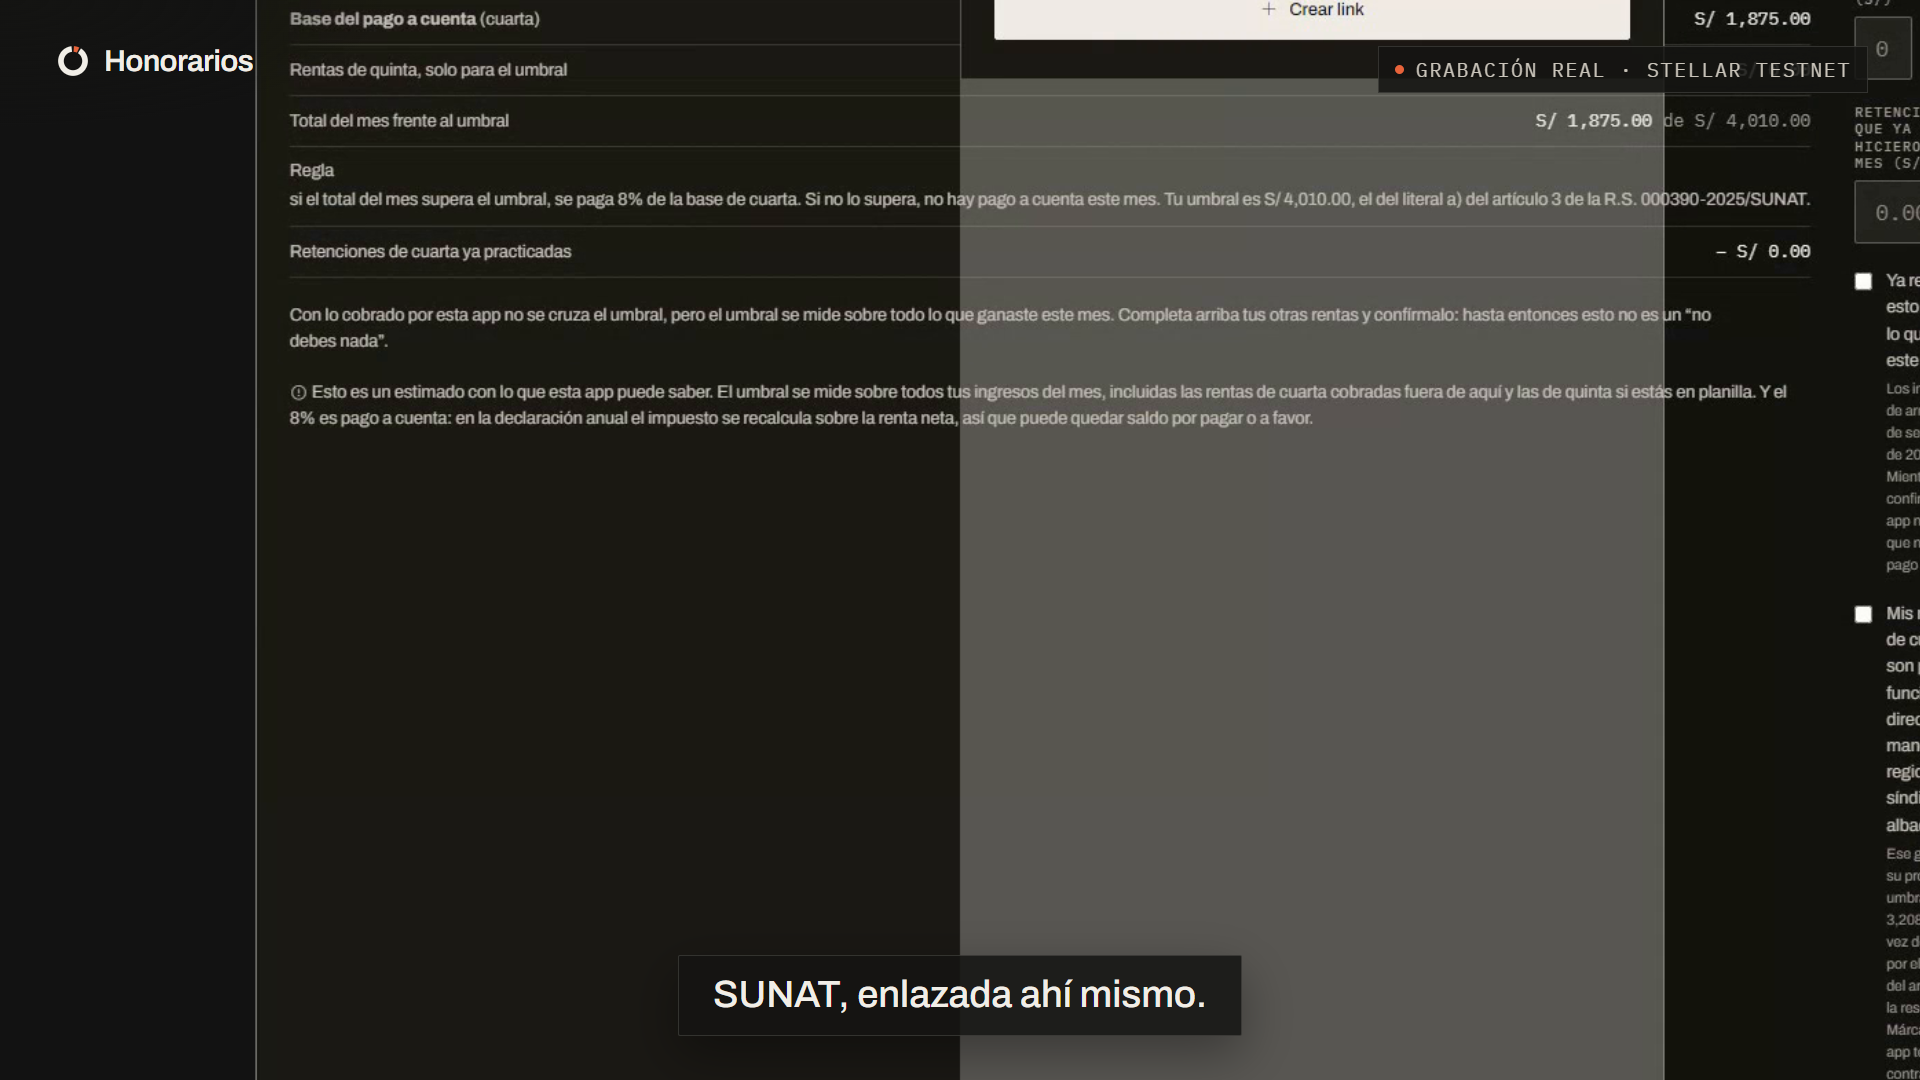
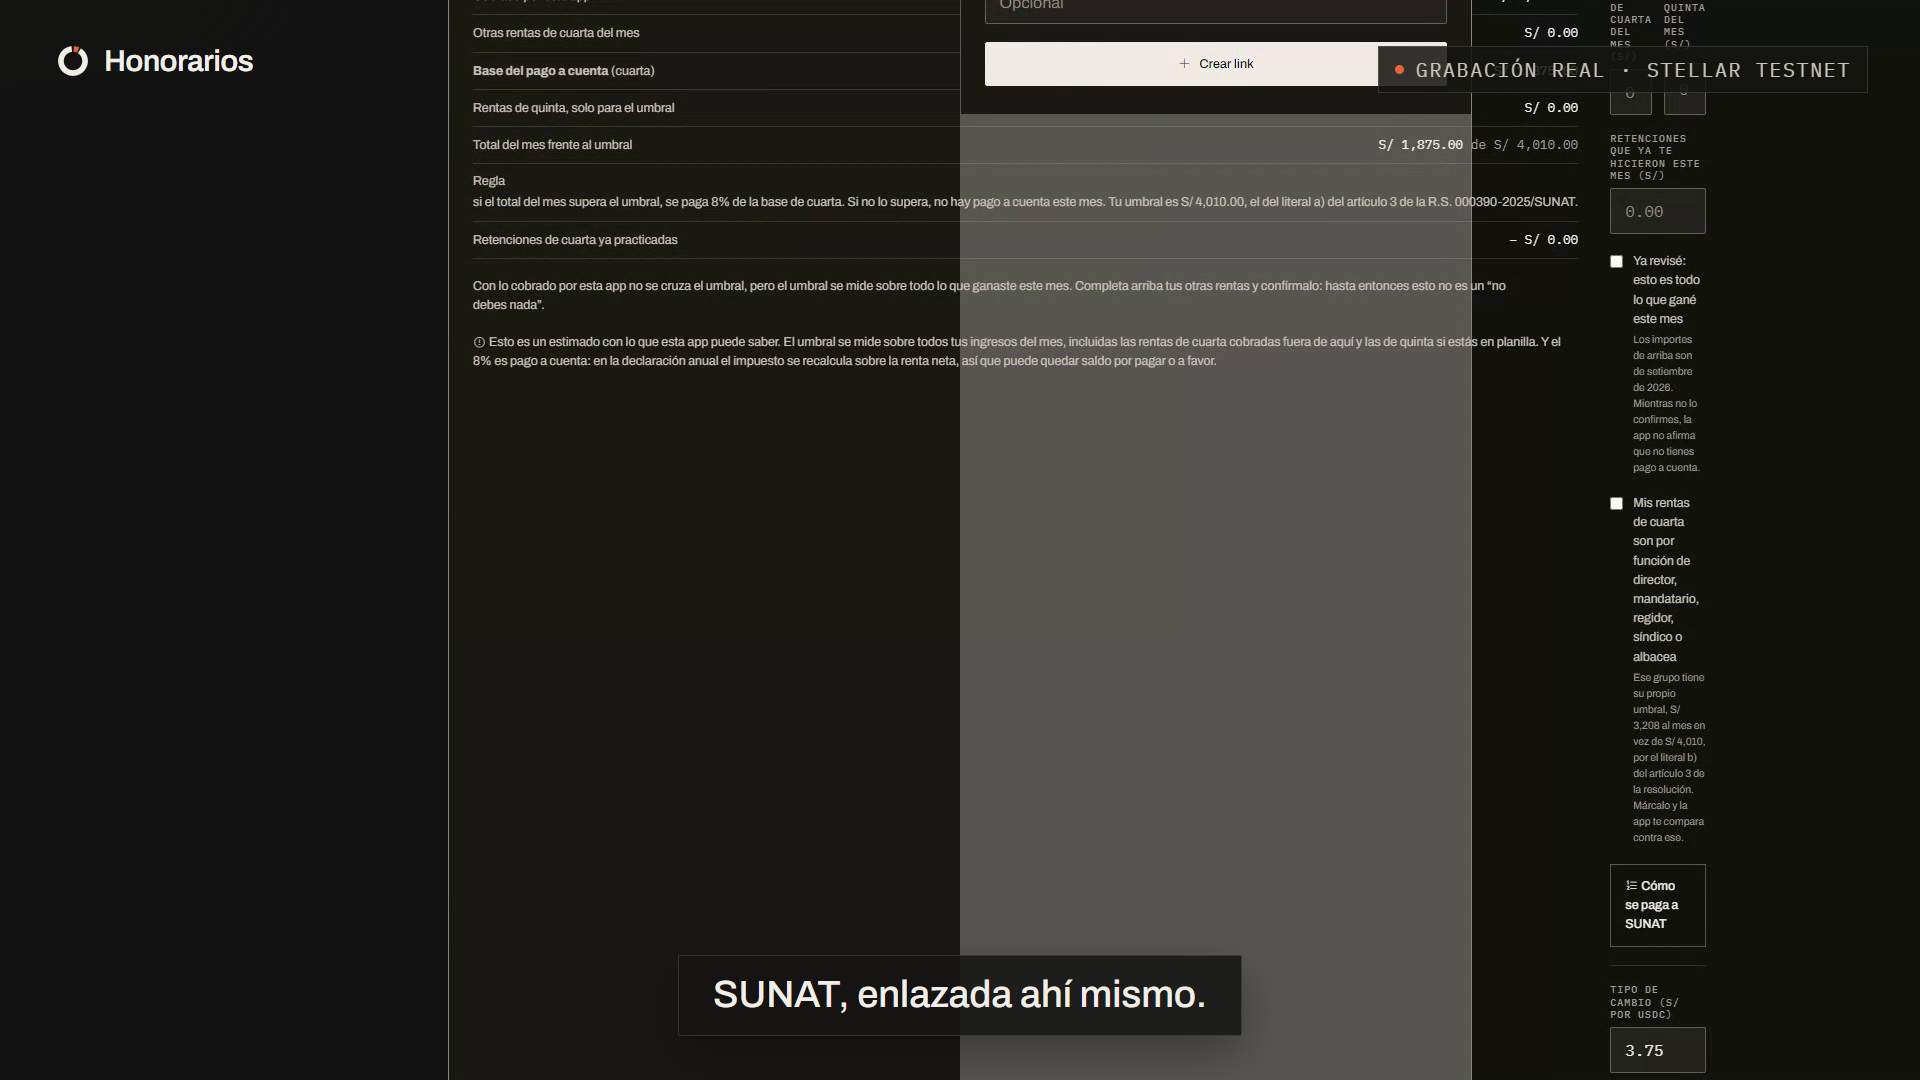
fix: el bloque fiscal se reparte por el ancho del bloque, no el de la ventana

diff --git a/video/remotion/src/scenes/Story.tsx b/video/remotion/src/scenes/Story.tsx
@@ -93,6 +93,19 @@ export const Brand: React.FC = () => {
 };
 
 /* ---------------------------------------------------------------- 2 · problema */
+
+/** El logotipo oficial de SUNAT acompaña siempre a la cita de la norma, nunca suelto:
+ *  identifica de quién es la resolución, sin insinuar que la entidad respalda la app.
+ *  Va sobre su chip blanco porque el archivo es a color y su manual pide fondo claro. */
+export const SelloSunat: React.FC<{texto: string; alto?: number}> = ({texto, alto = 34}) => (
+  <div style={{display: 'flex', alignItems: 'center', gap: 16}}>
+    <div style={{background: '#ffffff', padding: '9px 13px', display: 'flex'}}>
+      <Img src={staticFile('img/sunat.png')} style={{height: alto, width: 'auto', display: 'block'}} />
+    </div>
+    <span style={{fontFamily: MONO, fontSize: 21, letterSpacing: '0.06em', color: C.ink3}}>{texto}</span>
+  </div>
+);
+
 export const Problem: React.FC = () => {
   const f = useCurrentFrame();
   const aF = cue('problem', 'facturas');
@@ -129,7 +142,7 @@ export const Problem: React.FC = () => {
               <i style={{position: 'absolute', inset: 0, background: C.accent, transformOrigin: 'left', transform: `scaleX(${Math.max(0, ramp(f, a8 - 4, 16) * (1 - drain))})`, left: '86%', width: '14%'}} />
               <div style={{position: 'absolute', left: '86%', top: -18, bottom: -18, width: 3, background: C.ink}} />
             </div>
-            <Label size={20} style={{marginTop: 18}}>Fuente: R.S. 000390-2025/SUNAT</Label>
+            <div style={{marginTop: 22}}><SelloSunat texto="R.S. 000390-2025 · artículo 3" /></div>
           </div>
           <div style={{position: 'relative'}}>
             <Halo x={180} y={140} size={560} o={0.26 * ramp(f, a8, 12)} />
@@ -256,49 +269,6 @@ export const Regla: React.FC = () => {
       </AbsoluteFill>
       <Sfx src="whoosh.wav" at={1} vol={0.08} />
       <Sfx src="stamp.wav" at={aN - 4} vol={0.2} />
-    </SceneOut>
-  );
-};
-
-/* ---------------------------------------------------------------- lo que falta */
-export const Falta: React.FC = () => {
-  const f = useCurrentFrame();
-  const rows = [
-    {w: 'seguimos', t: 'Seguimos en pruebas', s: 'no mueve dinero real todavía'},
-    {w: 'nadie', t: 'Nadie ha declarado con esto', s: 'cero usuarios, y lo decimos'},
-  ];
-  const aH = cue('falta', 'hito');
-  return (
-    <SceneOut>
-      <AbsoluteFill style={{padding: '150px 130px 190px', display: 'grid', gridTemplateColumns: '0.85fr 1.15fr', gap: 80, alignItems: 'center'}}>
-        <div>
-          <Label>Lo que falta</Label>
-          <div style={{...H, fontSize: 96, marginTop: 20}}>Dicho<br />de frente</div>
-        </div>
-        <div style={{display: 'grid', gap: 30}}>
-          {rows.map((r) => {
-            const at = cue('falta', r.w);
-            const o = ramp(f, at - 4, 14);
-            return (
-              <div key={r.w} style={{display: 'flex', gap: 24, alignItems: 'center', opacity: o, transform: `translateY(${(1 - o) * 14}px)`, borderTop: `1px solid ${C.rule}`, paddingTop: 26}}>
-                <div style={{color: C.ink3}}><Prohibit size={44} weight="light" /></div>
-                <div>
-                  <div style={{fontFamily: FONT.display, fontSize: 44, fontWeight: 600, color: C.ink}}>{r.t}</div>
-                  <div style={{fontFamily: FONT.display, fontSize: 29, color: C.ink3}}>{r.s}</div>
-                </div>
-              </div>
-            );
-          })}
-          <div style={{display: 'flex', gap: 24, alignItems: 'center', opacity: ramp(f, aH - 4, 14), borderTop: `1px solid ${C.accent}`, paddingTop: 26}}>
-            <div style={{color: C.accent}}><MapPin size={44} weight="light" /></div>
-            <div style={{fontFamily: FONT.display, fontSize: 44, fontWeight: 600, color: C.ink}}>
-              Siguiente hito: el primer freelancer que declare
-            </div>
-          </div>
-        </div>
-      </AbsoluteFill>
-      <Sfx src="whoosh.wav" at={1} vol={0.08} />
-      <Sfx src="confirm.wav" at={aH - 4} vol={0.14} />
     </SceneOut>
   );
 };
@@ -439,13 +409,28 @@ export const Precio: React.FC = () => {
   );
 };
 
+
+/** Banderas dibujadas con las franjas oficiales y nada mas. Sin escudos, porque a este
+ *  tamaño se convierten en una mancha, y sin logotipos de instituciones: el video propone
+ *  un producto que no es oficial y una marca ajena sugeriria un respaldo que no existe. */
+const Bandera: React.FC<{franjas: string[]; pesos?: number[]; horizontal?: boolean}> = ({franjas, pesos, horizontal}) => (
+  <div style={{
+    display: 'flex', flexDirection: horizontal ? 'column' : 'row',
+    width: 76, height: 50, border: `1px solid ${C.rule}`, overflow: 'hidden',
+  }}>
+    {franjas.map((c, i) => (
+      <div key={i} style={{flex: pesos ? pesos[i] : 1, background: c}} />
+    ))}
+  </div>
+);
+
 /* ---------------------------------------------------------------- la region */
 export const Region: React.FC = () => {
   const f = useCurrentFrame();
   const paises = [
-    {w: 'México', t: 'México'},
-    {w: 'Colombia', t: 'Colombia'},
-    {w: 'Argentina', t: 'Argentina'},
+    {w: 'México', t: 'México', franjas: ['#006847', '#ffffff', '#ce1126'], horizontal: false},
+    {w: 'Colombia', t: 'Colombia', franjas: ['#fcd116', '#003893', '#ce1126'], pesos: [2, 1, 1], horizontal: true},
+    {w: 'Argentina', t: 'Argentina', franjas: ['#74acdf', '#ffffff', '#74acdf'], horizontal: true},
   ];
   const aP = cue('region', 'Perú');
   const aR = cue('region', 'reescribe');
@@ -453,7 +438,10 @@ export const Region: React.FC = () => {
     <SceneOut>
       <AbsoluteFill style={{padding: '155px 130px 195px', display: 'grid', gridTemplateRows: 'auto 1fr', gap: 44}}>
         <div>
-          <Label>Por qué Perú primero</Label>
+          <div style={{display: 'flex', alignItems: 'center', gap: 18}}>
+            <Bandera franjas={['#d91023', '#ffffff', '#d91023']} />
+            <Label>Por qué Perú primero</Label>
+          </div>
           <div style={{...H, fontSize: 84, marginTop: 18}}>Entramos por la norma más difícil</div>
           <div style={{fontFamily: FONT.display, fontSize: 38, color: C.ink3, marginTop: 20, opacity: ramp(f, aP - 4, 14)}}>
             Perú solo da entre <b style={{color: C.ink2}}>US$ 10,500 y 67,000</b> al año, con supuestos nuestros que están escritos.
@@ -465,7 +453,7 @@ export const Region: React.FC = () => {
             const o = ramp(f, at, 14);
             return (
               <div key={pa.w} style={{background: C.surface, border: `1px solid ${C.ruleStrong}`, padding: '30px 30px 34px', opacity: o, transform: `translateY(${(1 - o) * 16}px)`}}>
-                <div style={{color: C.accent}}><Globe size={44} weight="light" /></div>
+                <Bandera franjas={pa.franjas} pesos={pa.pesos} horizontal={pa.horizontal} />
                 <div style={{fontFamily: FONT.display, fontSize: 52, fontWeight: 600, color: C.ink, marginTop: 16}}>{pa.t}</div>
                 <div style={{fontFamily: FONT.display, fontSize: 27, color: C.ink3, marginTop: 8}}>mismo adelanto, su propio programa</div>
                 <div style={{fontFamily: MONO, fontSize: 22, color: C.ink3, marginTop: 20, borderTop: `1px solid ${C.rule}`, paddingTop: 16, opacity: ramp(f, aR - 4, 14)}}>
@@ -491,7 +479,7 @@ export const Close: React.FC = () => {
   return (
     <AbsoluteFill style={{opacity: fade}}>
       <Halo x={620} y={470} size={700} o={0.2} />
-      <AbsoluteFill style={{padding: '0 150px', display: 'grid', gridTemplateColumns: '1.4fr 1fr', alignItems: 'center', gap: 60}}>
+      <AbsoluteFill style={{padding: '0 150px', display: 'grid', gridTemplateColumns: '1fr auto', alignItems: 'center', gap: 90}}>
         <div>
           <div style={{display: 'flex', alignItems: 'center', gap: 34}}>
             <div style={{width: 230, height: 230, margin: '-40px -30px -40px -40px'}}><Logo3D size={230} draw={draw} spinFrom={0} /></div>
@@ -502,11 +490,12 @@ export const Close: React.FC = () => {
           </div>
           <div style={{fontFamily: MONO, fontSize: 26, color: C.ink3, marginTop: 50, lineHeight: 1.7, opacity: ramp(f, 30, 14)}}>
             github.com/kasbsquall/honorarios<br />
-            Stellar testnet · la app no emite comprobantes
+            Stellar testnet · en pruebas, sin usuarios todavía<br />
+            la app no emite comprobantes
           </div>
         </div>
-        <div style={{opacity: ramp(f, 14, 14), justifySelf: 'center', textAlign: 'center'}}>
-          <div style={{padding: 26, border: `1px solid ${C.ruleStrong}`, background: C.surface}}>
+        <div style={{opacity: ramp(f, 14, 14), textAlign: 'center'}}>
+          <div style={{padding: 24, background: C.surface, width: 'max-content', margin: '0 auto'}}>
             <Img src={staticFile('img/qr-light.svg')} style={{width: 300, height: 300, display: 'block'}} />
           </div>
           <div style={{fontFamily: MONO, fontSize: 30, color: C.ink, marginTop: 22}}>honorarios-pe.vercel.app</div>

diff --git a/video/remotion/src/scenes/Recorrido.tsx b/video/remotion/src/scenes/Recorrido.tsx
@@ -19,6 +19,13 @@ const BOXES: Record<string, Box> = Object.fromEntries(
 );
 
 const encuadre = (k: string, max = 1.45) => {
+  // "completo" es la pagina entera. Ampliar recorta el contexto y deja a la vista bloques
+  // sueltos que se leen como manchas: a 1080p la pagina completa se lee sin ampliar.
+  // La pagina no ocupa el cuadro: deja una franja muerta a la izquierda y otra abajo.
+  // "lleno" se centra en el contenido real y amplia lo justo para llenarlo. "plano" es
+  // para las pantallas cuyo texto llega al borde derecho, donde ampliar ya recorta la cita.
+  if (k === 'lleno') return {cx: 1080, cy: 470, s: 1.15};
+  if (k === 'plano') return {cx: 960, cy: 540, s: 1};
   const b = BOXES[k];
   if (!b || b.w < 80) return {cx: 960, cy: 540, s: 1.08};
   const top = Math.max(b.y, 0);
@@ -38,7 +45,7 @@ const encuadre = (k: string, max = 1.45) => {
 const Clip: React.FC<{src: string; foco: string; max?: number; children?: React.ReactNode}> = ({src, foco, max, children}) => {
   const f = useCurrentFrame();
   const {cx, cy, s} = encuadre(foco, max);
-  const drift = 1 + f * 0.00022; // ~0.7% en veinte segundos
+  const drift = s > 1.02 ? 1 + f * 0.00022 : 1; // ~0.7% en veinte segundos
   const k = s * drift;
   return (
     <AbsoluteFill style={{overflow: 'hidden', background: C.paper}}>
@@ -84,14 +91,14 @@ const Nota: React.FC<{at: number; children: React.ReactNode; icon?: React.ReactN
 
 export const Wallet: React.FC = () => (
   <SceneOut>
-    <Clip src="vid/wallet.mp4" foco="link_form" max={1.3} />
+    <Clip src="vid/wallet.mp4" foco="lleno" />
     <Sfx src="whoosh.wav" at={1} vol={0.08} />
   </SceneOut>
 );
 
 export const Pago: React.FC = () => (
   <SceneOut>
-    <Clip src="vid/pay.mp4" foco="pay_page" max={1.25} />
+    <Clip src="vid/pay.mp4" foco="lleno" />
     <Sfx src="whoosh.wav" at={1} vol={0.08} />
   </SceneOut>
 );
@@ -100,7 +107,7 @@ export const Panel: React.FC = () => (
   <SceneOut>
     {/* Se encuadra el ancho completo del contenido (la caja de "panel"), no la columna
         central: esa caja mide 511px y recortaba la cita de la resolucion por la derecha. */}
-    <Clip src="vid/panel.mp4" foco="panel" max={1.3}>
+    <Clip src="vid/panel.mp4" foco="lleno">
       <Nota at={cue('panel', 'tipo')} icon={<ArrowRight size={34} weight="light" />}>
         El tipo de cambio lo pone el usuario: el total en soles es aproximado, y la app lo advierte.
       </Nota>
@@ -111,7 +118,7 @@ export const Panel: React.FC = () => (
 
 export const Limites: React.FC = () => (
   <SceneOut>
-    <Clip src="vid/limites.mp4" foco="panel" max={1.22}>
+    <Clip src="vid/limites.mp4" foco="lleno">
       <Nota at={cue('limites', 'estima')} icon={<ArrowDown size={34} weight="light" />}>
         Estima, no declara.
       </Nota>
@@ -122,7 +129,7 @@ export const Limites: React.FC = () => (
 
 export const Retiro: React.FC = () => (
   <SceneOut>
-    <Clip src="vid/retiro.mp4" foco="withdraw_start" max={1.35}>
+    <Clip src="vid/retiro.mp4" foco="lleno">
       <Nota at={cue('retiro', 'Nadie')} icon={<Vault size={34} weight="light" />}>
         La firma del dueño es la única que abre la reserva.
       </Nota>

diff --git a/web/src/panel.css b/web/src/panel.css
@@ -82,7 +82,7 @@ dialog.rhe[open] { animation: rise 220ms var(--ease) both }
 .th-scale { display: flex; justify-content: space-between; font-size: var(--t-xs); color: var(--ink-3); font-variant-numeric: tabular-nums; margin-top: 6px }
 /* Filas cuyo texto no cabe en dos columnas: etiqueta arriba, contenido completo debajo. */
 .th-rows div.wide { display: block }
-.th-rows div.wide dd { text-align: left; color: var(--ink-2); margin-top: 2px }
+.th-rows div.wide dd { text-align: left; color: var(--ink-2); margin-top: 2px; white-space: normal }
 .check { display: grid; grid-template-columns: auto 1fr; gap: 10px; align-items: start; font-size: var(--t-s); color: var(--ink-2); cursor: pointer }
 .check input { margin-top: 3px; accent-color: var(--accent) }
 .check small { display: block; color: var(--ink-3); margin-top: 3px; line-height: 1.5 }
@@ -118,8 +118,11 @@ select.inline { background: none; border: 0; color: inherit; font: inherit; padd
   #newlink { position: sticky; top: 24px }
 }
 /* A partir de cierto ancho el bloque fiscal se reparte en dos: lectura a la izquierda,
-   lo que el usuario toca a la derecha. */
-@media (min-width: 1180px) {
+   lo que el usuario toca a la derecha. La medida es la del bloque, no la de la ventana:
+   con una media query, una pantalla ancha partia en dos una columna de 500px y dejaba
+   las etiquetas rotas palabra a palabra. */
+.block { container-type: inline-size }
+@container (min-width: 720px) {
   .th-body { display: grid; grid-template-columns: 1.05fr .95fr; gap: 32px; align-items: start }
   .th-body > div { display: grid; gap: 18px; align-content: start }
 }

diff --git a/video/remotion/src/Video.tsx b/video/remotion/src/Video.tsx
@@ -3,16 +3,17 @@ import {SCENES} from './timing';
 import {C} from './theme';
 import {Captions} from './lib/Captions';
 import {Ground, Mark} from './lib/film';
-import {Cold, Brand, Problem, Falta, Precio, Region, Close} from './scenes/Story';
+import {Cold, Brand, Problem, Precio, Region, Close} from './scenes/Story';
 import {Wallet, Pago, Cadena, Panel, Limites, Retiro} from './scenes/Recorrido';
 
 const MAP: Record<string, React.FC> = {
   cold: Cold, brand: Brand, problem: Problem, wallet: Wallet, pay: Pago, chain: Cadena,
   panel: Panel, limites: Limites, retiro: Retiro, precio: Precio, region: Region,
-  falta: Falta, close: Close,
+  close: Close,
 };
-// Escenas donde la marca ya ocupa el cuadro: la marca persistente se oculta.
-const NO_MARK = new Set(['brand', 'close']);
+// Escenas donde la marca ya ocupa el cuadro, o donde la cabecera de la propia app la
+// muestra y se verian dos veces la misma palabra: la marca persistente se oculta.
+const NO_MARK = new Set(['brand', 'close', 'wallet', 'pay', 'panel', 'limites', 'retiro']);
 
 const FilmMark: React.FC = () => {
   const f = useCurrentFrame();

diff --git a/video/audio_gen.py b/video/audio_gen.py
@@ -40,7 +40,6 @@ SCENES = [
     ("retiro", "Arma el borrador del recibo, y la reserva se retira firmando con la huella. Nadie más puede sacar ese dinero, tampoco nosotros."),
     ("precio", "El plan es cobrar medio por ciento de cada cobro, y solo cuando cobras: quien factura dos mil dólares al mes pagaría ciento veinte al año. Hoy el contrato está desplegado en cero, y la comisión se fija al desplegar. No hay forma de cambiarla después."),
     ("region", "En Perú hay dos millones y medio de independientes menores de cuarenta y uno, según el INEI, y solo el trece por ciento tiene RUC. El mismo adelanto existe en México, Colombia y Argentina. Por cada país se reescribe el contrato y su norma; Stellar no cambia."),
-    ("falta", "Lo que falta, dicho de frente: seguimos en pruebas y nadie ha declarado todavía con esto. Ese es el siguiente hito."),
     ("close", "Honorarios. Cobra afuera, declara tranquilo."),
 ]
 
@@ -50,8 +49,8 @@ REUSE = {"brand": "audio_v4/scenes/brand.wav", "close": "audio_v4/scenes/close.w
 
 LEAD = 1.6          # seconds of music before the voice enters
 # Silencio extra tras la voz de una escena, para que la demo respire.
-EMOTION = {"cold": "confident", "brand": "enthusiastic", "problem": "sympathetic", "wallet": "confident", "pay": "excited", "chain": "confident", "panel": "calm", "limites": "calm", "retiro": "content", "precio": "confident", "region": "proud", "falta": "sympathetic", "close": "enthusiastic"}
-POST = {"cold": 1.2, "brand": 0.6, "problem": 1.5, "wallet": 4.0, "pay": 3.5, "chain": 5.5, "panel": 6.0, "limites": 5.0, "retiro": 5.5, "precio": 1.5, "region": 1.5, "falta": 1.2, "close": 5.0}
+EMOTION = {"cold": "confident", "brand": "enthusiastic", "problem": "sympathetic", "wallet": "confident", "pay": "excited", "chain": "confident", "panel": "calm", "limites": "calm", "retiro": "content", "precio": "confident", "region": "proud", "close": "enthusiastic"}
+POST = {"cold": 1.2, "brand": 0.6, "problem": 1.5, "wallet": 4.0, "pay": 3.5, "chain": 5.5, "panel": 6.0, "limites": 5.0, "retiro": 5.5, "precio": 1.5, "region": 1.5, "close": 5.0}
 GAP = 0.28          # silence inserted between scenes, so beats do not run together
 
 

diff --git a/docs/bitacora.md b/docs/bitacora.md
@@ -509,3 +509,28 @@ esa mide 511px y recortaba por la derecha la cita de la R.S. 000390-2025/SUNAT, 
 justo lo que hay que poder leer.
 
 **Pendiente:** subir a YouTube y completar el enlace del README. Rotar la clave de Cartesia.
+
+## 2026-09-20 · Segunda pasada sobre la pieza única
+
+**Un defecto del video destapó uno de la app.** El texto de la regla tributaria se cortaba
+por el borde derecho de la pantalla. No era el encuadre: el bloque fiscal partía en dos
+columnas según el ancho de la *ventana* (`@media (min-width: 1180px)`), no según el ancho
+del bloque, que mide unos 500px. A pantalla completa quedaban dos columnas de 240px con las
+etiquetas rotas palabra a palabra y la cita de la R.S. desbordando. Se cambió a container
+query sobre `.block` y el `white-space: nowrap` de los importes se anuló en la fila de la
+regla, que es prosa. Ver `web/src/panel.css`.
+
+**Encuadre.** Las pantallas grabadas van a tamaño casi real (1.15x, centrado en el contenido
+en x=1080): ampliar más recorta la cita, que es justo lo que hay que poder leer. La marca
+persistente del video se oculta en las escenas de pantalla, porque la app ya muestra la suya
+en su cabecera y se veía "Honorarios" dos veces.
+
+**Logo de SUNAT.** Kevin lo pidió expresamente. Va en la escena del problema, junto a la
+cita de la resolución, sobre su chip blanco. Se descartó superponerlo a la grabación: en
+esa pantalla siempre tapa un control, y la propia app ya muestra el número de la resolución.
+
+**Escena "Lo que falta" eliminada.** Lo que decía pasa al cierre en una línea: "en pruebas,
+sin usuarios todavía". El video queda en 2:38.
+
+**Banderas** dibujadas con sus franjas y sin escudos, para Perú, México, Colombia y
+Argentina. No se usan logotipos de instituciones más allá del de SUNAT.
